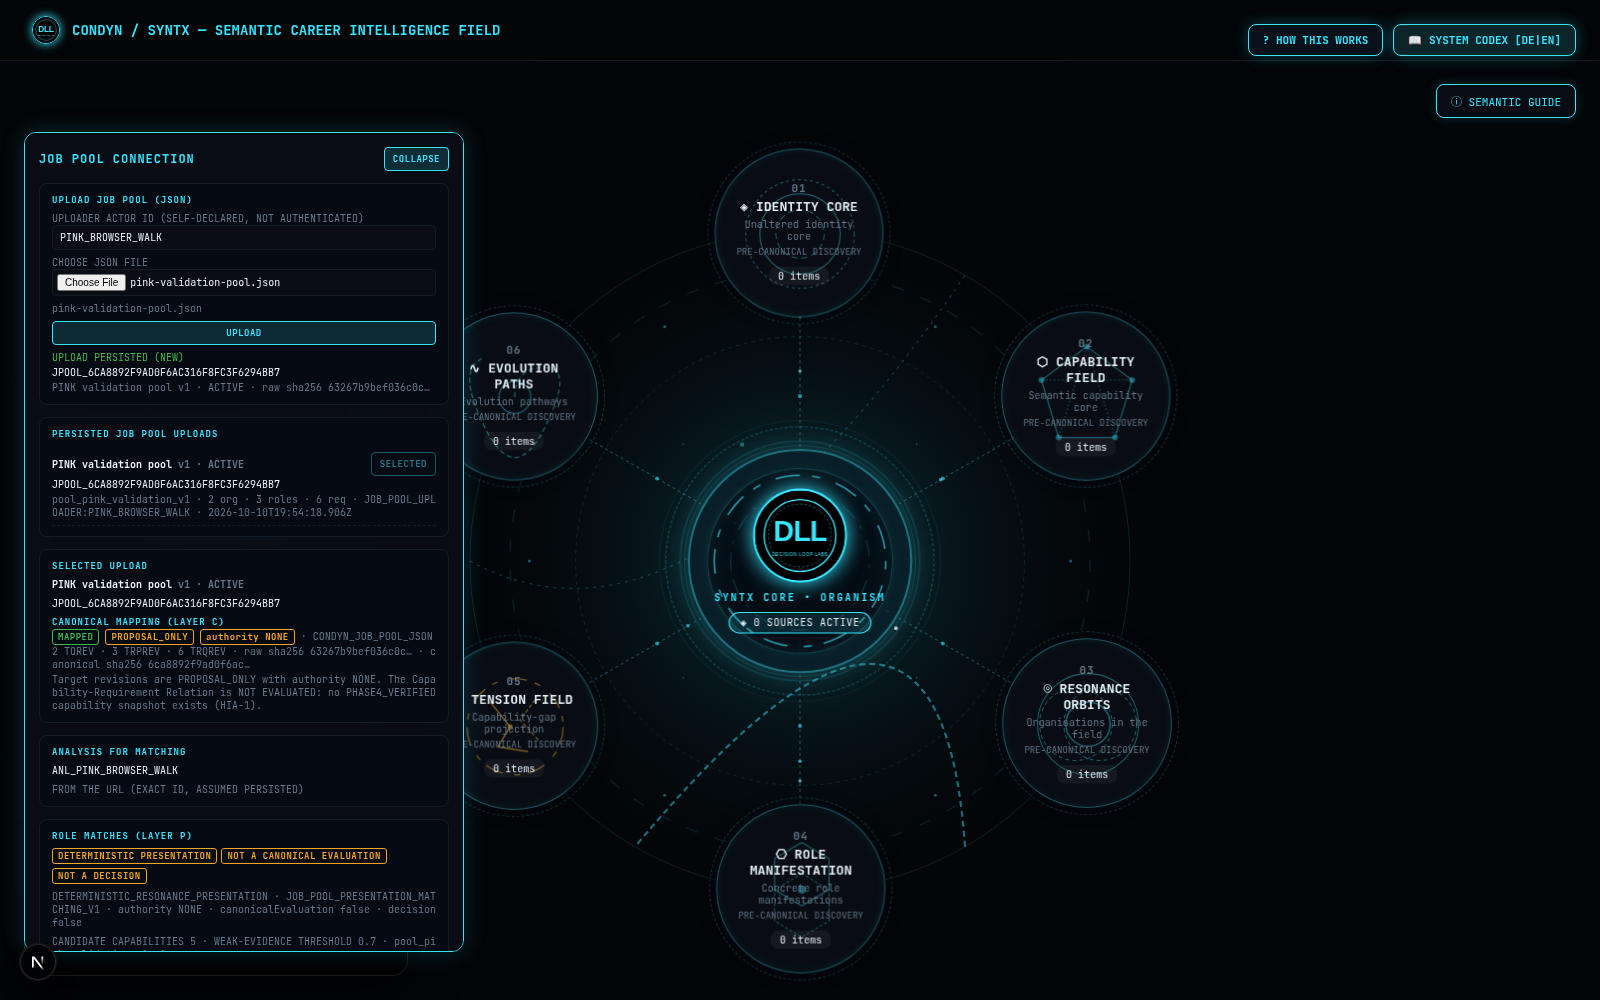
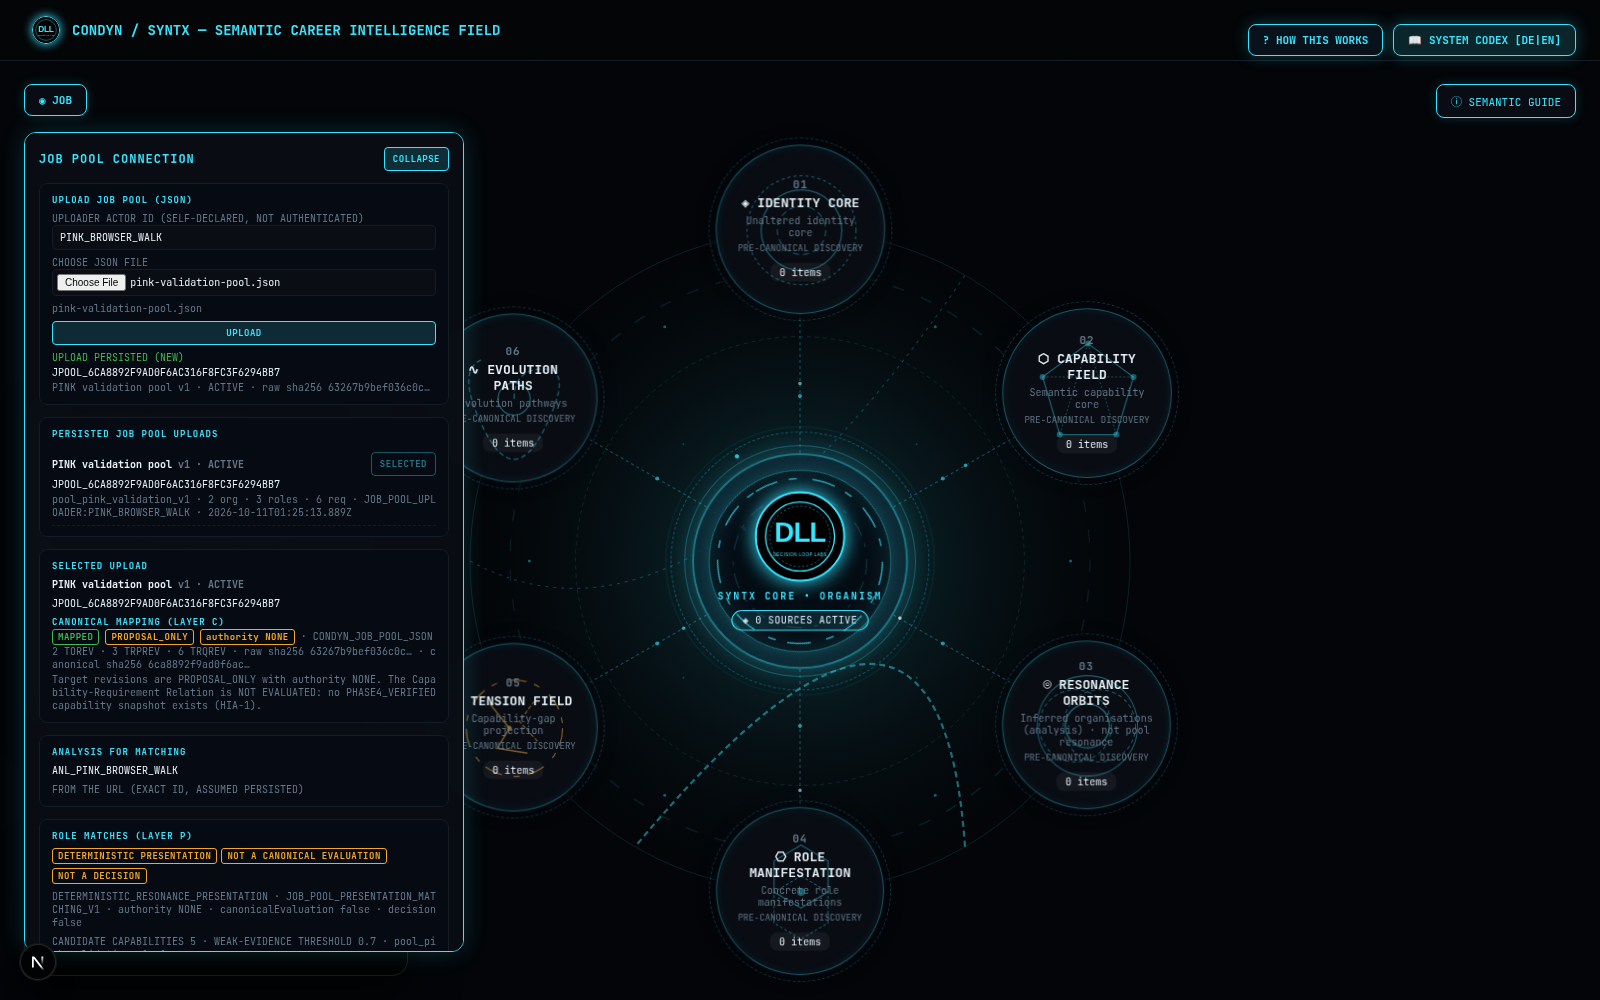
test(job-field): validate GRÜN's Job Field 8e876fd — JOB-focus browser proof and SG-1/4/5/6 guard green, contract clarifications bound

diff --git a/test/job-pool-validation/job-field.e2e.test.ts b/test/job-pool-validation/job-field.e2e.test.ts
@@ -105,7 +105,8 @@ describe.skipIf(playwrightModule === null || !jobFocusPresent)("PINK Job Field: 
     const field = page.getByTestId("job-field");
     await page.locator('[data-testid="job-field"][data-field-state="AVAILABLE"]').waitFor({ timeout: 60_000 });
     expect(await field.getAttribute("data-analysis-id")).toBe(ANALYSIS_ID);
-    expect(await field.getAttribute("data-pool-id")).toBe(validationPool.pool.id);
+    // GRÜN: data-pool-id carries the exact selected upload id (JPOOL_…), never the declared pool.id.
+    expect(await field.getAttribute("data-pool-id")).toBe(uploadId);
     expect(await field.getAttribute("data-role-count")).toBe(String(matches.roleMatches.length));
     expect(await field.getAttribute("data-sweep-state")).toBe(matches.capabilitySweep.state);
     expect(await page.getByTestId("job-field-core").getAttribute("data-candidate-capability-count")).toBe(String(matches.candidateCapabilityCount));
@@ -136,8 +137,15 @@ describe.skipIf(playwrightModule === null || !jobFocusPresent)("PINK Job Field: 
 
     const legend = (await page.getByTestId("job-field-legend").textContent()) ?? "";
     expect(legend).toContain("POOL RESONANCE (PRESENTATION)");
-    expect(legend.toLowerCase()).toContain("authority none");
-    expect(await page.getByTestId("job-field-non-claims").count()).toBe(1);
+    expect(legend.toLowerCase()).toContain("not a canonical metric");
+    // The authority wording sits on the nearest presented role (GRÜN copy `nearestLabel`), the laws on the non-claims line.
+    if (nearest) {
+      const nearestText = ((await page.getByTestId("job-field-nearest").textContent()) ?? "").toLowerCase();
+      expect(nearestText).toContain("authority none");
+      expect(nearestText).toContain("not a decision");
+    }
+    const nonClaims = (await page.getByTestId("job-field-non-claims").textContent()) ?? "";
+    for (const law of ["NEAREST != CHOSEN", "PENDING != MISSING CAPABILITY", "COVERED != SCORED", "DISTANCE != TRUTH", "POOL ROLE != INFERRED ROLE"]) expect(nonClaims).toContain(law);
     const fieldText = (await field.innerHTML()) ?? "";
     expect(fieldText).not.toMatch(/\b(RRL|TSN|EIS|RCP)_[A-Z0-9]/);
 
@@ -162,8 +170,20 @@ describe.skipIf(playwrightModule === null || !jobFocusPresent)("PINK Job Field: 
     expect(await pendingCount("UNRESOLVED_EVIDENCE")).toBe(focus.weakEvidence.length);
     expect(await pendingCount("UNSCORED_COVERAGE")).toBe([...focus.weakEvidence, ...focus.missing].filter((item: any) => item.sweepProposal !== null).length);
     expect(await pendingCount("NO_EVIDENCE_DELIVERED")).toBe(focus.missing.filter((item: any) => item.sweepProposal === null).length);
+    // GRÜN (b): UNPROVEN_CANONICAL lists the role's TRQREV ids in delivered order; the other kinds list pool requirement ids.
     const unprovenIds = ((await page.getByTestId("job-field-pending-UNPROVEN_CANONICAL").getAttribute("data-ids")) ?? "").split(",").filter(Boolean);
-    expect(unprovenIds.length).toBe(requirementCountOf(focus.poolRoleId));
+    expect(unprovenIds).toEqual(focus.canonical.targetRequirementRevisionIds);
+    const noEvidenceIds = ((await page.getByTestId("job-field-pending-NO_EVIDENCE_DELIVERED").getAttribute("data-ids")) ?? "").split(",").filter(Boolean);
+    expect(noEvidenceIds).toEqual(focus.missing.filter((item: any) => item.sweepProposal === null).map((item: any) => item.poolRequirementId));
+    const unresolvedIds = ((await page.getByTestId("job-field-pending-UNRESOLVED_EVIDENCE").getAttribute("data-ids")) ?? "").split(",").filter(Boolean);
+    expect(unresolvedIds).toEqual(focus.weakEvidence.map((item: any) => item.poolRequirementId));
+    // F-JF-1 handled by GRÜN: the core names both capability sources with their scoring status.
+    const core = page.getByTestId("job-field-core");
+    expect(await core.getAttribute("data-sweep-proposal-count")).toBe(String(matches.capabilitySweep.proposalCount));
+    // The source wording (F-JF-1) is rendered in the legend next to the core counts.
+    const legendText = ((await page.getByTestId("job-field-legend").textContent()) ?? "").toUpperCase();
+    expect(legendText).toContain(`ANALYSIS CAPABILITIES (SCORED SOURCE): ${matches.candidateCapabilityCount}`);
+    expect(legendText).toContain(`SWEEP PROPOSALS (UNSCORED): ${matches.capabilitySweep.proposalCount}`);
     const reason = (await page.getByTestId("job-field-pending-reason").textContent()) ?? "";
     expect(reason).toContain("NOT_EVALUATED");
     expect(reason).toContain("VERIFIED_CAPABILITY_SNAPSHOT_ABSENT");

diff --git a/test/job-pool-validation/job-field-static.test.ts b/test/job-pool-validation/job-field-static.test.ts
@@ -26,7 +26,9 @@ describe("Job Field semantic governance (static)", () => {
   it.skipIf(jobFieldFiles.length === 0)("SG-1: Job Field files never read LLM-inferred organizations, roles or entity names of the analysis", () => {
     const offenders = jobFieldFiles.flatMap((file) => {
       const text = readFileSync(file, "utf8");
-      const hits = ["structured_data", "identity.name", "analysis.organizations", "analysis.roles", "companyMatches", "roleMatches", "organizationName.toLowerCase", "ROLE_IN_ORGANIZATION"].filter((token) => text.includes(token));
+      // `presentation.roleMatches` is the pool body (SG-5); the LLM-inferred demo state is reached only through
+      // the demo-data / ui-adapter shapes, `structured_data` or the entity grammar (`identity.name`).
+      const hits = ["structured_data", "identity.name", "analysis.organizations", "analysis.roles", "activeData.roleMatches", "activeData.companyMatches", "demo-data", "ui-adapter", "organizationName.toLowerCase", "ROLE_IN_ORGANIZATION"].filter((token) => text.includes(token));
       return hits.length ? [`${relative(root, file)}: ${hits.join(", ")}`] : [];
     });
     expect(offenders).toEqual([]);
@@ -39,8 +41,10 @@ describe("Job Field semantic governance (static)", () => {
   });
 
   it.skipIf(jobFieldFiles.length === 0)("SG-5/SG-6 vocabulary: the Job Field names its resonance as presentation and never a canonical relation id prefix", () => {
+    // Copy lives in the SIL language block; the Job Field sources must carry no canonical relation id prefix.
+    const copy = readFileSync(join(root, "lib/career/view-model/sil-language.ts"), "utf8");
+    expect(copy).toMatch(/POOL RESONANCE \(PRESENTATION\)/);
     const text = jobFieldFiles.map((file) => readFileSync(file, "utf8")).join("\n");
-    expect(text).toMatch(/POOL RESONANCE \(PRESENTATION\)/);
     expect(text).not.toMatch(/\b(RRL|TSN|EIS|RCP)_[A-Z0-9]/);
   });
 });

diff --git a/docs/architecture/decision-fields/JOB_POOL_CONNECTION_VALIDATION.md b/docs/architecture/decision-fields/JOB_POOL_CONNECTION_VALIDATION.md
@@ -452,6 +452,38 @@ the legacy freeze, the DB-1 recovery candidate depends on it, and the planetariu
 derivation (proven) → owner boundary **B-JF-REC-ID**, accepted by PINK. F-JF-1, 4, 5, 6 assigned to GRÜN as
 presentation items; PINK's Job Field proofs bind their labels when the Job Field lands.
 
+#### 3.13.2 GRÜN's Job Field `frontend/job-field` @ `8e876fd` validated, merged as `22bb539` (with GELB's `cf2d084`)
+
+Contract clarifications bound (GRÜN, 2026-10-11): `data-resonance-score` verbatim body value, `data-distance` =
+clamp01(1 − score) unrounded (numeric tolerance), `data-pool-id` = the selected upload id (`JPOOL_…`),
+`data-ids` of `UNPROVEN_CANONICAL` = the role's TRQREV ids in delivered order, other kinds = pool requirement ids,
+`data-field-state` authoritative. Source wording (F-JF-1) in the legend: "ANALYSIS CAPABILITIES (SCORED SOURCE): n ·
+SWEEP PROPOSALS (UNSCORED): m"; authority wording on the nearest presented role; laws on the non-claims line.
+
+PINK-side corrections while binding (no Job Field finding): the SG-1 token `roleMatches` also names the pool body
+field (now `activeData.roleMatches`, `demo-data`, `ui-adapter` imports and the entity grammar are the forbidden
+tokens); the legend copy lives in `sil-language.ts`, not in the Job Field sources; the authority wording sits on the
+nearest element, not the legend.
+
+Reconstruction: `lib/career/job-pool/job-field-presentation.ts` derives everything from `JobPoolMatchPresentation`
+only (requirement states MATCHED / UNRESOLVED / COVERED_UNSCORED / NO_EVIDENCE_DELIVERED, four pending kinds never
+merged, distance = clamp01(1 − resonanceScore), grouping by `poolOrganizationId` only, nearest = first delivered role
+with a scored match); `JobField.tsx` renders it with the contract ids. GRÜN resolved F-JF-1 (legend), F-JF-5 (legacy
+list components no longer imported), F-JF-6 (orbit 03 subtitle "Inferred organisations (analysis) · not pool
+resonance"); F-JF-4 and the orbit 02/04 relabels are blocked by sealed SIL language tests → owner boundary
+**B-ORBIT-COPY** (recorded in `JOB_FIELD_FRONTEND.md` §5).
+
+Runs as the role (load 5–14 from peer batches; no timeout):
+
+```
+condyn_test_3f85a9d211cd974d  Job Field + Job Pool + adapter suites: 23 files green (GRÜN e2e 10/10, PINK browser walk,
+                              HTTP/canonical/inverse, PDF path, SSR, governance, planetarium alignment, orbit contract);
+                              PINK job-field proofs red on three PINK-side assumptions (above)
+condyn_test_58133f9f9e6c9583  PINK job-field.e2e 2/2 and job-field-static 3/3 green after the corrections
+```
+
+Evidence: `evidence/job-pool-validation/pink-04-job-field-job-focus.png`.
+
 ## 4. Boundaries and findings for coordination
 
 - F-JP-1 (closed in `b782793`): `JOB_POOL_CONNECTION.md` §4 followed the per-role `JOB_POOL_JSON_ROLE` design;
